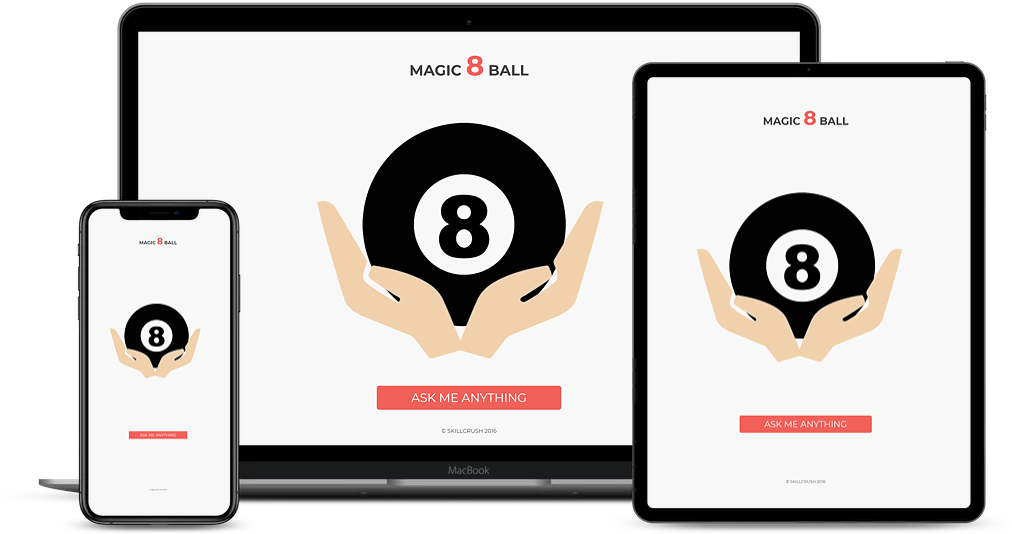
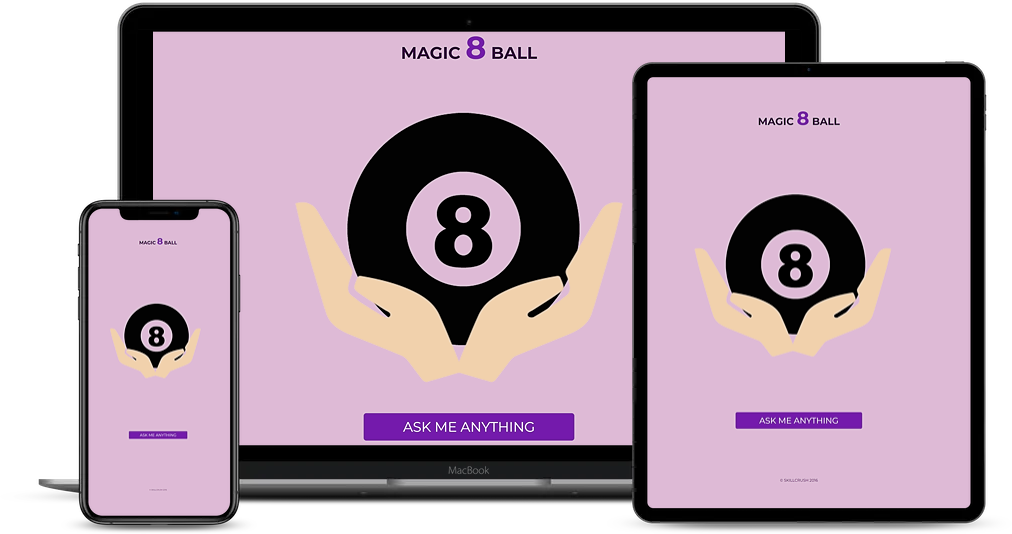
Update color palette

diff --git a/style.css b/style.css
@@ -1,9 +1,9 @@
 body {
   font-family: "Montserrat", sans-serif;
-  color: #454545;
+  color: #340744;
   margin: 0px;
   padding: 0px;
-  background-color: #f8f8f8;
+  background-color: #DEBAD6;
   background-image: url('bkgd2.png');
 }
 
@@ -38,7 +38,7 @@ body {
   margin-top:-60px;
   margin-left:-65px;
   font: 16px 'Open Sans', Helvetica, Arial, sans-serif;
-  color: #222;
+  color: #340744;
   text-transform: uppercase;
 }
 
@@ -47,7 +47,7 @@ body {
   border-radius: 5px;
   border: none;
   color: #f8f8f8;
-  background-color: #f16059;
+  background-color: #741AAC;
   padding: 10px 75px;
   display: block;
   margin: 0 auto;
@@ -60,11 +60,15 @@ header {
 
 header span {
   font-size: 60px;
-  color: #f16059;
+  color: #741AAC;
 }
 
 h1, h2, h3, h4, h5, h6 {
   font-family: "Montserrat", sans-serif;
+}
+
+img {
+  background: #DEBAD6;
 }
 
 footer {
